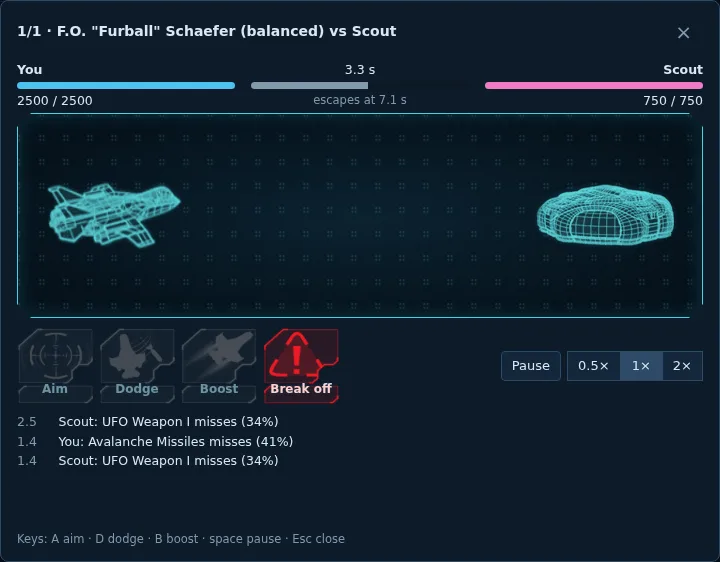
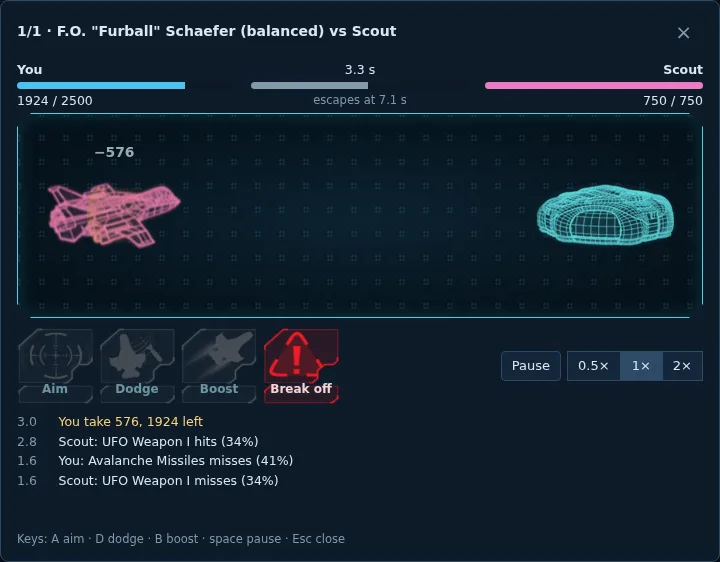
Hand edits only for the version in the game
Another version's own file is not what the game's file was edited from: with
LWR chosen over the Long War in the game, every difference between the two
was listed as edited by hand (am note a4510).

diff --git a/src/state/tools.ts b/src/state/tools.ts
@@ -849,9 +849,10 @@ async function loadGameSettings(current: string | null): Promise<void> {
   tools.gameSettingsFrom = own?.from ?? ''
   pruneSplitHalves(gameKind())
   // Hand edits: where the file differs from the version's own, other than by
-  // the player's settings already.
+  // the player's settings already. Only for the version in the game: another
+  // version's own file differs from the game's everywhere they differ.
   tools.handEdits = markRaw(
-    own && current !== null && own.text !== current
+    own && current !== null && own.text !== current && gameKind() === tools.install?.kind
       ? settingsChanged(own.text, current, names).filter(
           (c) => tools.gameValues[c.def.id] !== c.now,
         )

diff --git a/e2e-desktop/site-shots.spec.ts b/e2e-desktop/site-shots.spec.ts
@@ -118,6 +118,8 @@ test('screenshots for the website', async () => {
     clip: { x: box.x, y: box.y, width: Math.min(box.width, 980), height: 420 },
   })
   await plan.getByRole('button', { name: /Cancel|Close/ }).click()
+  // LWR unpacked now: Long War's file in the game is no list of hand edits to LWR's own.
+  await expect(page.getByRole('region', { name: 'Edits by hand' })).toHaveCount(0)
 
   // Not for the site: LWR's class colours, to look at.
   const lwrColors = page.locator('details[aria-label="Class colors"]')

diff --git a/features/version-setups.md b/features/version-setups.md
@@ -159,3 +159,16 @@ anything is changed.
 
 Noted, left as it is: the header's version picker is the version the site
 shows (it follows the install), separate from the version chosen in Tools.
+
+## Report (2026-10-21, note a4510)
+
+The person's note: after switching between LWR and Long War, "The game's file
+differs from Long War Rebalanced 2.06.00's own in 792 settings, edited by
+hand…" grew too long to be any use. The comparison ran against the chosen
+version's own file even when another version was in the game, so every
+difference between Long War and LWR counted as a hand edit. Hand edits are
+now looked for only when the chosen version is the one in the game.
+
+Verified with `scripts/site-shots.sh` on the real packages: it chooses LWR
+over the Long War in the game, after a plan has unpacked LWR, and finds no
+hand-edits list. Without the fix, the same run fails there.
